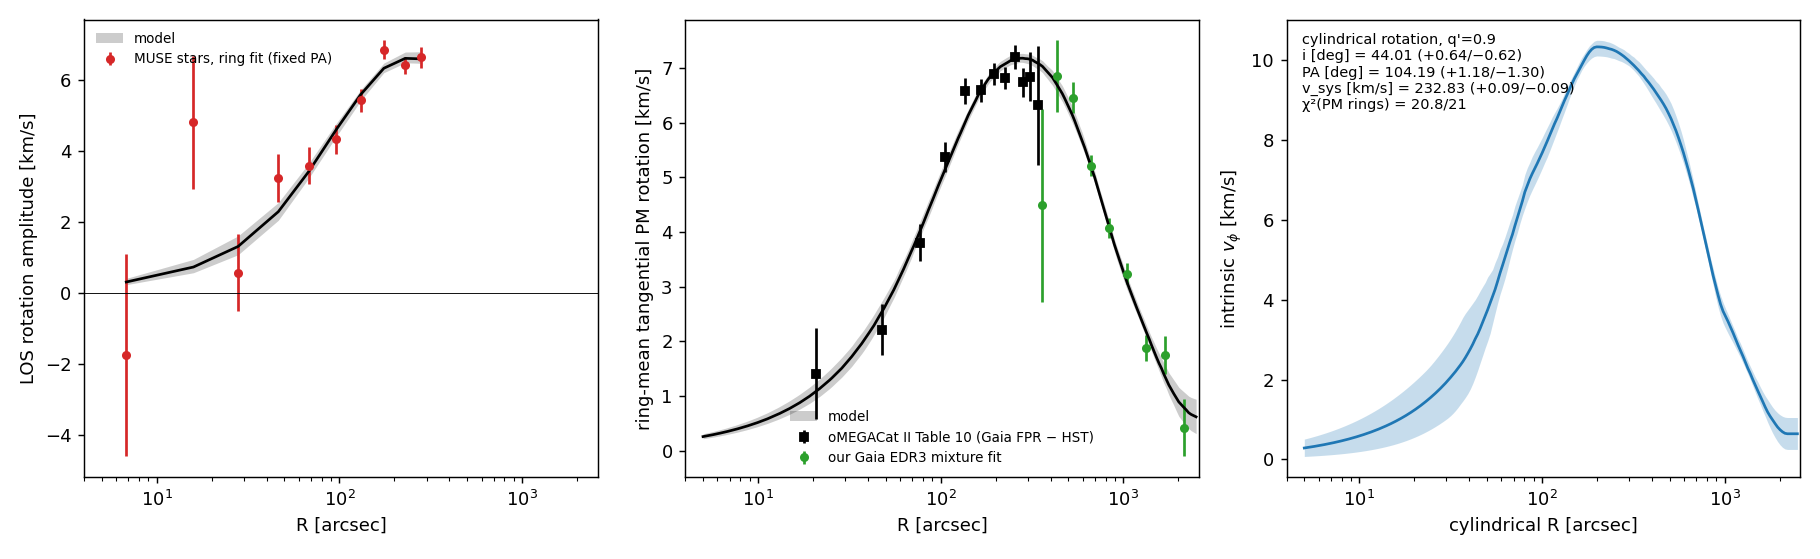
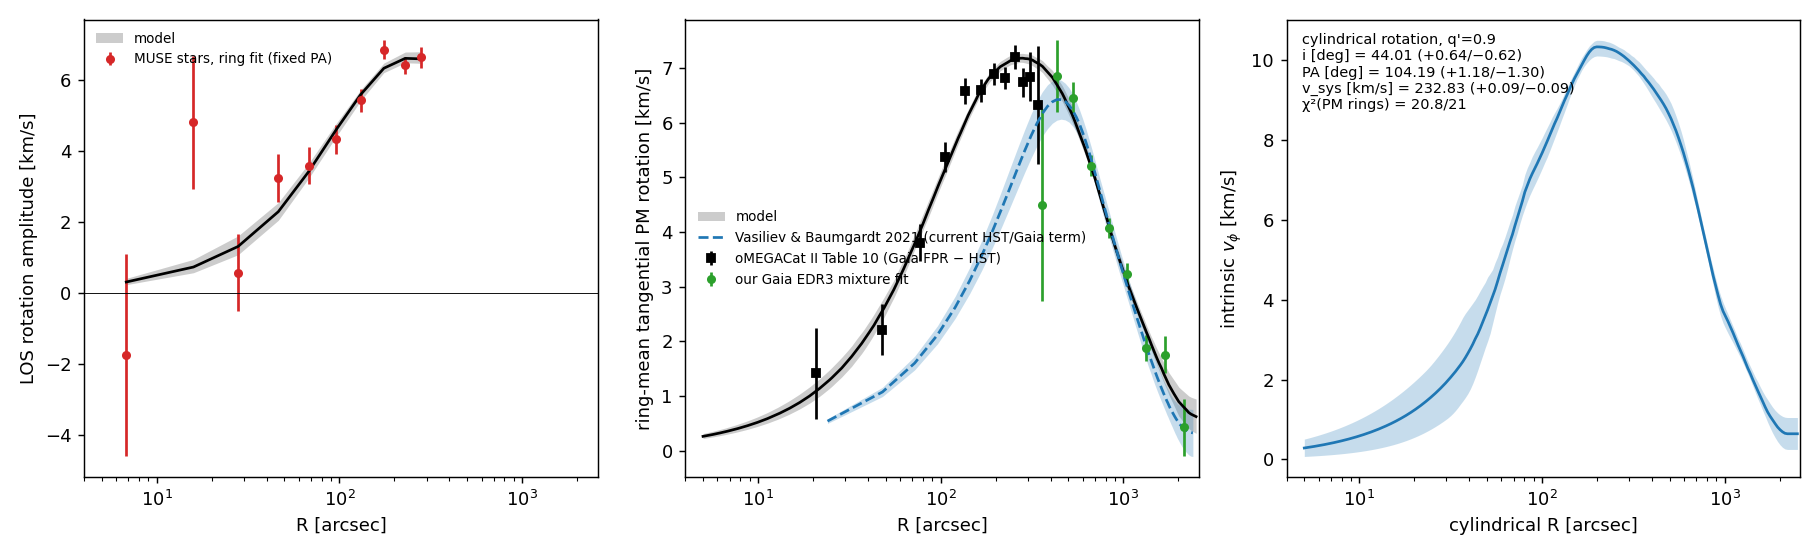
Rotation field plot: show the VB21 PM curve on the PM panel

diff --git a/bin/plot_rotation_field.py b/bin/plot_rotation_field.py
@@ -4,7 +4,7 @@
 Panels: (a) LOS rotation amplitude per annulus: MUSE per-star velocities binned in rings (ML fit of v_sys + A cos(phi')
 with phi' measured from the fitted PA, intrinsic sigma from the published profile, per-star errors) vs the model's
 amplitude in the same rings (posterior draws); (b) ring-averaged tangential PM rotation (oMEGACat II Table 10 and our
-Gaia EDR3) vs the model; (c) intrinsic v_phi(R) with 68% band; inset text: i, PA, v_sys.
+Gaia EDR3) vs the model; (c) intrinsic v_phi(R) with 68% band; panel (b) also shows the VB21 PM curve (median, 16-84%); inset text: i, PA, v_sys.
 Usage: PYTHONPATH=src:bin python bin/plot_rotation_field.py [--law cylindrical|spherical]
 Output: plots/rotation_field_<law>_20261113.png
 """
@@ -70,6 +70,14 @@ def main():
     ax[1].errorbar(src[t10], pv[t10], pe[t10], fmt="s", color="k", ms=4, label="oMEGACat II Table 10 (Gaia FPR − HST)")
     ax[1].errorbar(src[~t10], pv[~t10], pe[~t10], fmt="o", color="C2", ms=4, label="our Gaia EDR3 mixture fit")
     ax[1].plot(rr, qr[1], color="k"); ax[1].fill_between(rr, qr[0], qr[2], color="k", alpha=.2, lw=0, label="model")
+    from astropy.table import Table
+    from ocen_dm.paths import processed_dir
+    vb = Table.read(processed_dir()/"kinematics"/"vasiliev2021_ocen_pm_profiles.ecsv")
+    k = np.asarray(vb["r"]) > 0
+    ax[1].fill_between(np.asarray(vb["r"])[k], np.asarray(vb["vrot_pm_p16"])[k]*F.KMS, np.asarray(vb["vrot_pm_p84"])[k]*F.KMS,
+                       color="C0", alpha=.25, lw=0)
+    ax[1].plot(np.asarray(vb["r"])[k], np.asarray(vb["vrot_pm"])[k]*F.KMS, color="C0", lw=1.5, ls="--",
+               label="Vasiliev & Baumgardt 2021 (current HST/Gaia term)")
     ax[1].set_xscale("log"); ax[1].set_xlabel("R [arcsec]"); ax[1].set_ylabel("ring-mean tangential PM rotation [km/s]")
     ax[1].legend(fontsize=7.5, frameon=False)
     ax[2].plot(rr, qv[1], color="C0"); ax[2].fill_between(rr, qv[0], qv[2], color="C0", alpha=.25, lw=0)
